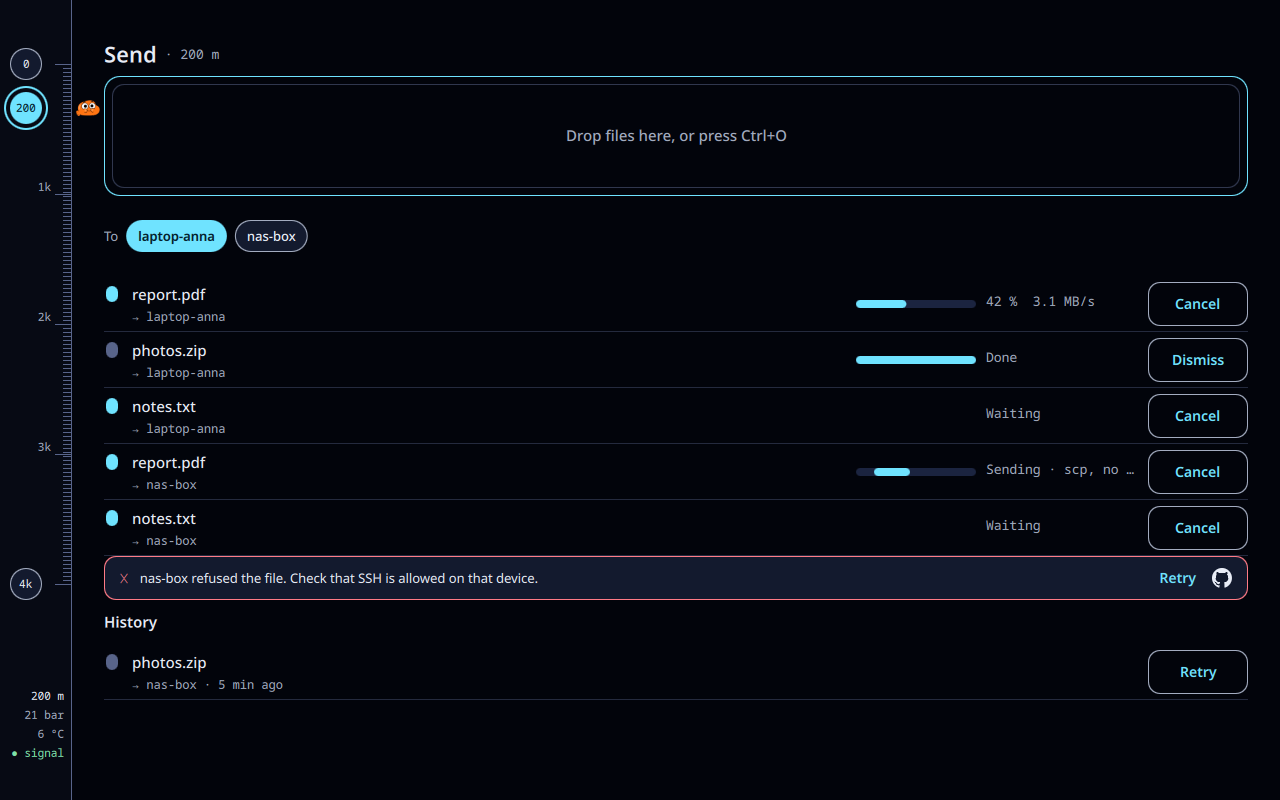
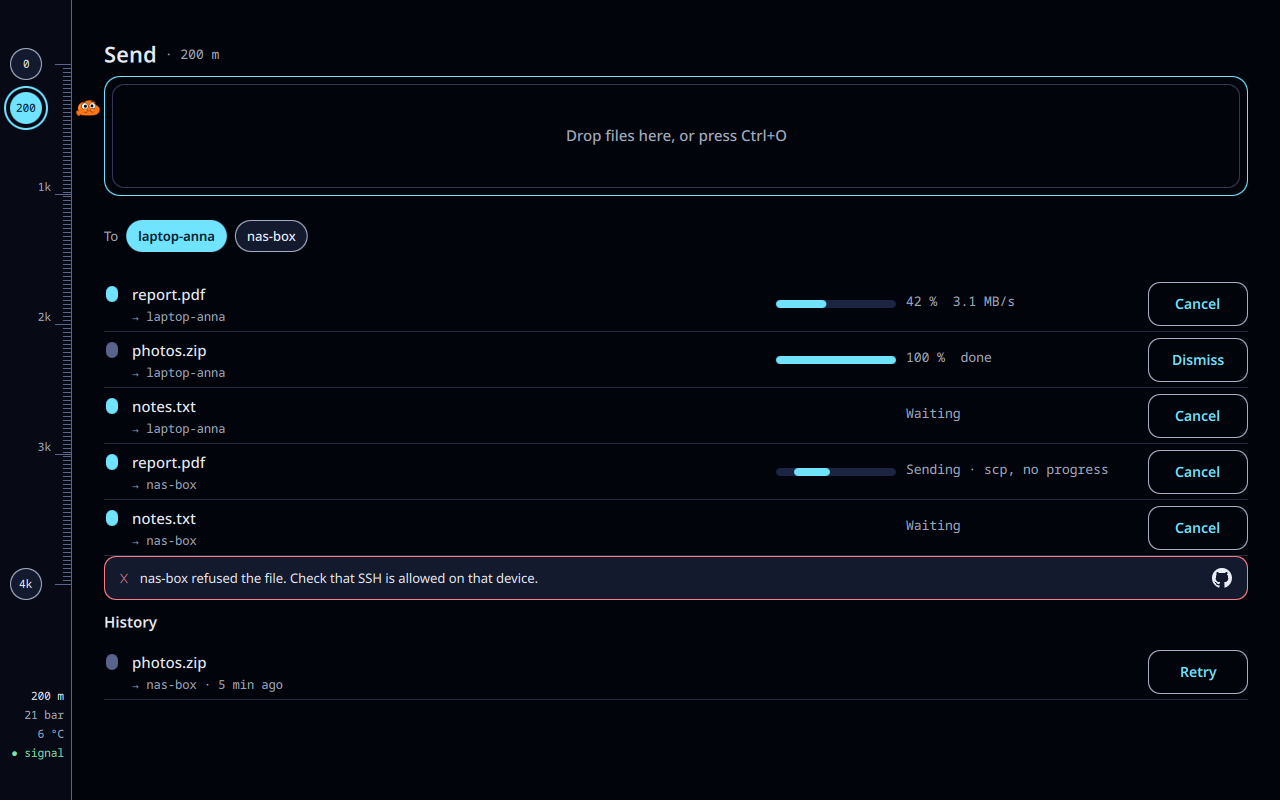
fix(send): done rows no longer block a re-send, band Retry tied to its failure, full scp label, ages refresh, bench mode by env (NAK-325)

diff --git a/app/views/SendView.qml b/app/views/SendView.qml
@@ -26,6 +26,10 @@ Item {
     // False while the window is hidden: the indeterminate segment and the
     // meter stop
     property bool shown: true
+    // "Now" for the history ages: refreshed when the queue changes and when the
+    // window is shown again, so no timer runs for it
+    property real clock: Date.now()
+    onShownChanged: clock = Date.now()
     // Set by the window after a first close attempt during a transfer
     property bool closeAsked: false
     // The queue state (SendQueue.js); replaced, never edited
@@ -50,7 +54,9 @@ Item {
     // The height of the "History" heading: a 44 px target like the buttons
     readonly property int headerHeight: 44
     // The newest failed or cancelled job: what the band's Retry sends again
-    readonly property var lastFailed: q.history.find(j => j.state === "failed" || j.state === "cancelled") ?? null
+    // The job the shown failure belongs to (0 for none): the band's Retry sends that one
+    property int failedId: 0
+    readonly property var lastFailed: failedId > 0 ? q.history.find(j => j.id === failedId) ?? null : null
     readonly property int runningCount: running.count
     readonly property var online: (Array.isArray(peers) ? peers : []).filter(p => p.online)
     readonly property var names: online.map(p => p.name)
@@ -112,9 +118,13 @@ Item {
     function act(job, kind) {
         if (kind === "cancel")
             q = Queue.cancel(q, job.id, Date.now());
-        else if (kind === "retry")
+        else if (kind === "retry") {
             q = Queue.retry(q, job.id);
-        else
+            if (job.id === failedId) {
+                failure = null;
+                failedId = 0;
+            }
+        } else
             q = Queue.dismiss(q, job.id);
         _pump();
     }
@@ -219,6 +229,7 @@ Item {
         if (!plan.ok) {
             q = Queue.fail(q, id, plan.reason, Date.now());
             failure = Send.refusal(plan.reason);
+            failedId = id;
             _pump();
             return;
         }
@@ -239,6 +250,7 @@ Item {
             const why = Send.explain(code, stderr, peer ? peer.name : job.device, false);
             q = Queue.fail(q, id, why.title, Date.now());
             failure = why;
+            failedId = id;
         }
         _pump();
     }
@@ -249,6 +261,7 @@ Item {
     onQChanged: {
         liveRows.sync(q.jobs);
         historyRows.sync(q.history);
+        clock = Date.now();
         const sending = new Set(q.jobs.filter(j => j.state === "sending").map(j => j.id));
         for (let i = running.count - 1; i >= 0; i--)
             if (!sending.has(running.get(i).jid))
@@ -386,6 +399,7 @@ Item {
 
                 width: view.width
                 history: true
+                now: view.clock
                 job: view.rowJob(pastRow.model)
                 onAction: kind => view.act(job, kind)
             }

diff --git a/app/components/SendQueue.js b/app/components/SendQueue.js
@@ -20,23 +20,36 @@ function empty() {
     return { "jobs": [], "history": [], "nextId": 1 };
 }
 
+function _live(job) {
+    return job.state === QUEUED || job.state === SENDING;
+}
+
 // Files x devices, in drop order, up to MAX_JOBS live jobs. Duplicates of a
-// live job (same file, same device) are skipped: a double drop sends once.
+// live job (same file, same device) are skipped: a double drop sends once. A
+// done row waiting for its Dismiss is neither a duplicate nor counted, so the
+// file can be sent again; the oldest done rows go to the history instead when
+// the list itself is full.
 function add(state, paths, devices) {
-    const jobs = state.jobs.slice();
+    let history = state.history;
+    let jobs = state.jobs.slice();
+    if (jobs.length >= MAX_JOBS) {
+        const done = jobs.filter(j => j.state === DONE);
+        jobs = jobs.filter(j => j.state !== DONE);
+        history = done.reverse().concat(history).slice(0, MAX_HISTORY);
+    }
     let id = state.nextId;
     let skipped = 0;
     for (const device of devices) {
         for (const path of paths) {
-            const dup = jobs.some(j => j.device === device && j.path === path);
-            if (dup || jobs.length >= MAX_JOBS) {
+            const dup = jobs.some(j => _live(j) && j.device === device && j.path === path);
+            if (dup || jobs.filter(_live).length >= MAX_JOBS) {
                 skipped++;
                 continue;
             }
             jobs.push({ "id": id++, "device": device, "path": path, "state": QUEUED, "progress": null, "reason": "", "at": 0 });
         }
     }
-    return { "state": { "jobs": jobs, "history": state.history, "nextId": id }, "skipped": skipped };
+    return { "state": { "jobs": jobs, "history": history, "nextId": id }, "skipped": skipped };
 }
 
 // Ids to start now: the first queued job of every device that has none
@@ -116,7 +129,7 @@ function cancel(state, id, now) {
 // A failed or cancelled job of the history goes back to the end of the queue.
 function retry(state, id) {
     const old = state.history.find(j => j.id === id);
-    if (!old || (old.state !== FAILED && old.state !== CANCELLED) || state.jobs.length >= MAX_JOBS)
+    if (!old || (old.state !== FAILED && old.state !== CANCELLED) || state.jobs.filter(_live).length >= MAX_JOBS)
         return state;
     const job = Object.assign({}, old, { "state": QUEUED, "progress": null, "reason": "", "at": 0 });
     return {

diff --git a/app/components/SendJobRow.qml b/app/components/SendJobRow.qml
@@ -22,10 +22,7 @@ Item {
     readonly property bool live: job.state === "queued" || job.state === "sending"
     readonly property string actionLabel: live ? "Cancel" : job.state === "done" ? "Dismiss" : "Retry"
     readonly property bool hasAction: !history || job.state === "failed" || job.state === "cancelled"
-    readonly property string age: {
-        const min = Math.max(0, Math.round((now - (job.at ?? 0)) / 60000));
-        return min < 1 ? "just now" : min < 60 ? min + " min ago" : Math.floor(min / 60) + " h ago";
-    }
+    readonly property string age: Transfer.age(now, job.at)
 
     height: 56
 
@@ -71,7 +68,7 @@ Item {
     Rectangle {
         id: track
 
-        x: parent.width - 100 - 12 - 120 - 160
+        x: parent.width - 100 - 12 - 120 - 240
         y: 24
         width: 120
         height: 8
@@ -107,8 +104,8 @@ Item {
         visible: !row.history
         x: track.x + 130
         y: 16
-        width: 150
-        text: row.job.state === "sending" ? (row.job.progress === null ? "Sending · scp, no progress" : Math.round(row.job.progress * 100) + " %  " + row.rate) : row.job.state === "failed" ? "Failed" : row.job.state === "cancelled" ? "Cancelled" : row.job.state === "done" ? "Done" : "Waiting"
+        width: 230
+        text: row.job.state === "sending" ? (row.job.progress === null ? "Sending · scp, no progress" : Math.round(row.job.progress * 100) + " %  " + row.rate) : row.job.state === "failed" ? "Failed" : row.job.state === "cancelled" ? "Cancelled" : row.job.state === "done" ? "100 %  done" : "Waiting"
         color: Theme.onSurfaceVariant
         font.family: Theme.monoFontFamily
         font.pixelSize: Theme.fontSizeMedium

diff --git a/tests/sendQueue.test.js b/tests/sendQueue.test.js
@@ -69,5 +69,18 @@ for (let i = 1; i <= 80; i++)
     h = Q.fail(Q.start(h, i), i, "x");
 eq("history is capped", h.history.length, 50);
 eq("history keeps the newest", h.history[0].id, 80);
+// A done row waiting for Dismiss is not a live job
+let d = Q.add(Q.empty(), ["f"], ["a"]).state;
+d = Q.finish(Q.start(d, 1), 1, 5);
+r = Q.add(d, ["f"], ["a"]);
+eq("re-send after done is accepted", r.skipped, 0);
+eq("the done row stays beside the new job", r.state.jobs.length, 2);
+let full = Q.add(Q.empty(), Array.from({ length: 200 }, (_, i) => "f" + i), ["a"]).state;
+for (let i = 1; i <= 200; i++)
+    full = Q.finish(Q.start(full, i), i, 1);
+r = Q.add(full, ["new"], ["a"]);
+eq("done rows never refuse a drop", r.skipped, 0);
+eq("the old done rows moved to the history", r.state.jobs.length, 1);
+eq("history stays capped", r.state.history.length, 50);
 eq("input state is never mutated", Q.empty().jobs.length, 0);
 done();

diff --git a/tests/qml/SendView.test.qml b/tests/qml/SendView.test.qml
@@ -106,7 +106,9 @@ Item {
         check("reef was refused", failed.join() === "reef");
         check("the refusal is a guided message", view.failure !== null && view.failure.guide.indexOf("send-a-file") > 0, view.failure);
         const reef = view.q.history.find(j => j.state === "failed");
+        check("the band's Retry targets the failed job", view.lastFailed !== null && view.lastFailed.id === reef.id, view.lastFailed);
         view.act(reef, "retry");
+        check("retry clears the band", view.failure === null && view.lastFailed === null, view.failure);
         check("retry queues it again", view.q.jobs.length === 1 || view.q.history.length >= 1);
         until(() => view.q.jobs.length === 0, afterRetry, "retry ends");
     }

diff --git a/tests/sendTransfer.test.js b/tests/sendTransfer.test.js
@@ -40,4 +40,8 @@ eq("garbage", T.parseProgress(undefined), null);
 eq("short name kept", T.middle("a.pdf", 18, 6), "a.pdf");
 eq("long name keeps the extension", T.middle("quarterly-report-final-version-2026-signed.pdf", 18, 6), "quarterly-report-f…ed.pdf");
 eq("base name", T.baseName("/tmp/x/y.txt"), "y.txt");
+eq("age just now", T.age(1000, 1000), "just now");
+eq("age minutes", T.age(5 * 60000, 0), "5 min ago");
+eq("age hours", T.age(150 * 60000, 0), "2 h ago");
+eq("age never negative", T.age(0, 99999), "just now");
 done();

diff --git a/app/components/SendTransfer.js b/app/components/SendTransfer.js
@@ -67,3 +67,10 @@ function baseName(path) {
     const p = String(path);
     return p.slice(p.lastIndexOf("/") + 1) || p;
 }
+
+// "just now", "5 min ago", "2 h ago" for a history row. `at` and `now` are ms
+// since the epoch, given by the caller so this stays pure.
+function age(now, at) {
+    const min = Math.max(0, Math.round((now - (at ?? 0)) / 60000));
+    return min < 1 ? "just now" : min < 60 ? min + " min ago" : Math.floor(min / 60) + " h ago";
+}

diff --git a/CHANGELOG.md b/CHANGELOG.md
@@ -1,16 +1,13 @@
-# Changelog
-
-All notable changes to Abyss are documented here.
+# ChangelogAll notable changes to Abyss are documented here.
 The format follows [Keep a Changelog](https://keepachangelog.com/en/1.1.0/) and versions follow [Semantic Versioning](https://semver.org/).
 
 ## Unreleased
 
-- Send view matches the mockups more closely: a finished job stays in the queue at 100 % with *Dismiss*, the failure band is red with *Retry* and sits under the queue, history rows show `→ device · age` (age since the send, this session only).
-
-- **App Send view** (`app/views/SendView.qml`, `app/components/{SendQueue.js,SendFlow.js,SendJobRow,DevicePicker,DropZone,SendJobProcess,CliRunner}`): queue of files × devices, one transfer per device at a time, cancel, retry, in-memory capped history, drag and drop, Ctrl+O picker, Ctrl+V paste (one `wl-paste --type text/uri-list` read per keypress), `rsync` progress when available, otherwise `scp` with an indeterminate indicator. Pure logic in `tests/sendQueue.test.js`; QML tests in `tests/qml/SendView.test.qml` (need PySide6).
+- **App Send view** (`app/views/SendView.qml`, `app/components/{SendQueue.js,SendFlow.js,SendJobRow,DevicePicker,DropZone,SendJobProcess,CliRunner}`): queue of files × devices, one transfer per device at a time, cancel, retry, in-memory capped history, drag and drop, Ctrl+O picker, Ctrl+V paste (one `wl-paste --type text/uri-list` read per keypress), `rsync` progress when available, otherwise `scp` with an indeterminate indicator. Pure logic in `tests/sendQueue.test.js`; QML tests in `tests/qml/SendView.test.qml` (need PySide6). A finished job stays in the queue at 100 % with *Dismiss*, the failure band is red with *Retry* (it retries the job whose failure it shows) and sits under the queue, history rows show `→ device · age` (age since the send, this session only).
 
 ### Fixed
 
+- Send view: a done row waiting for *Dismiss* no longer counts as a live job, so the same file can be sent again and done rows never fill the cap; the scp label is shown in full; the history ages refresh without a timer; the Send bench scene takes its mode from `BENCH_MODE` instead of a tracked state file.
 - Send view (review of NAK-325): transfers survive every progress line (stable process delegates, rsync launched once per job), closing the window during a transfer asks once to finish or cancel (cancel stops every job and probe), `abyss send <device> [files]` hands its files to the view (capped), a file dropped on a device chip goes to that device only, rsync is probed once per device, the view ignores meter lines while hidden, and the window keeps the Send view alive after the first visit. `app/components/CliRunner.qml` is a symlink to the shared one. More QML cases: Ctrl+V of a folder, `wl-paste` missing, Ctrl+V inside a text field, drop on a device.
 
 ### Added
